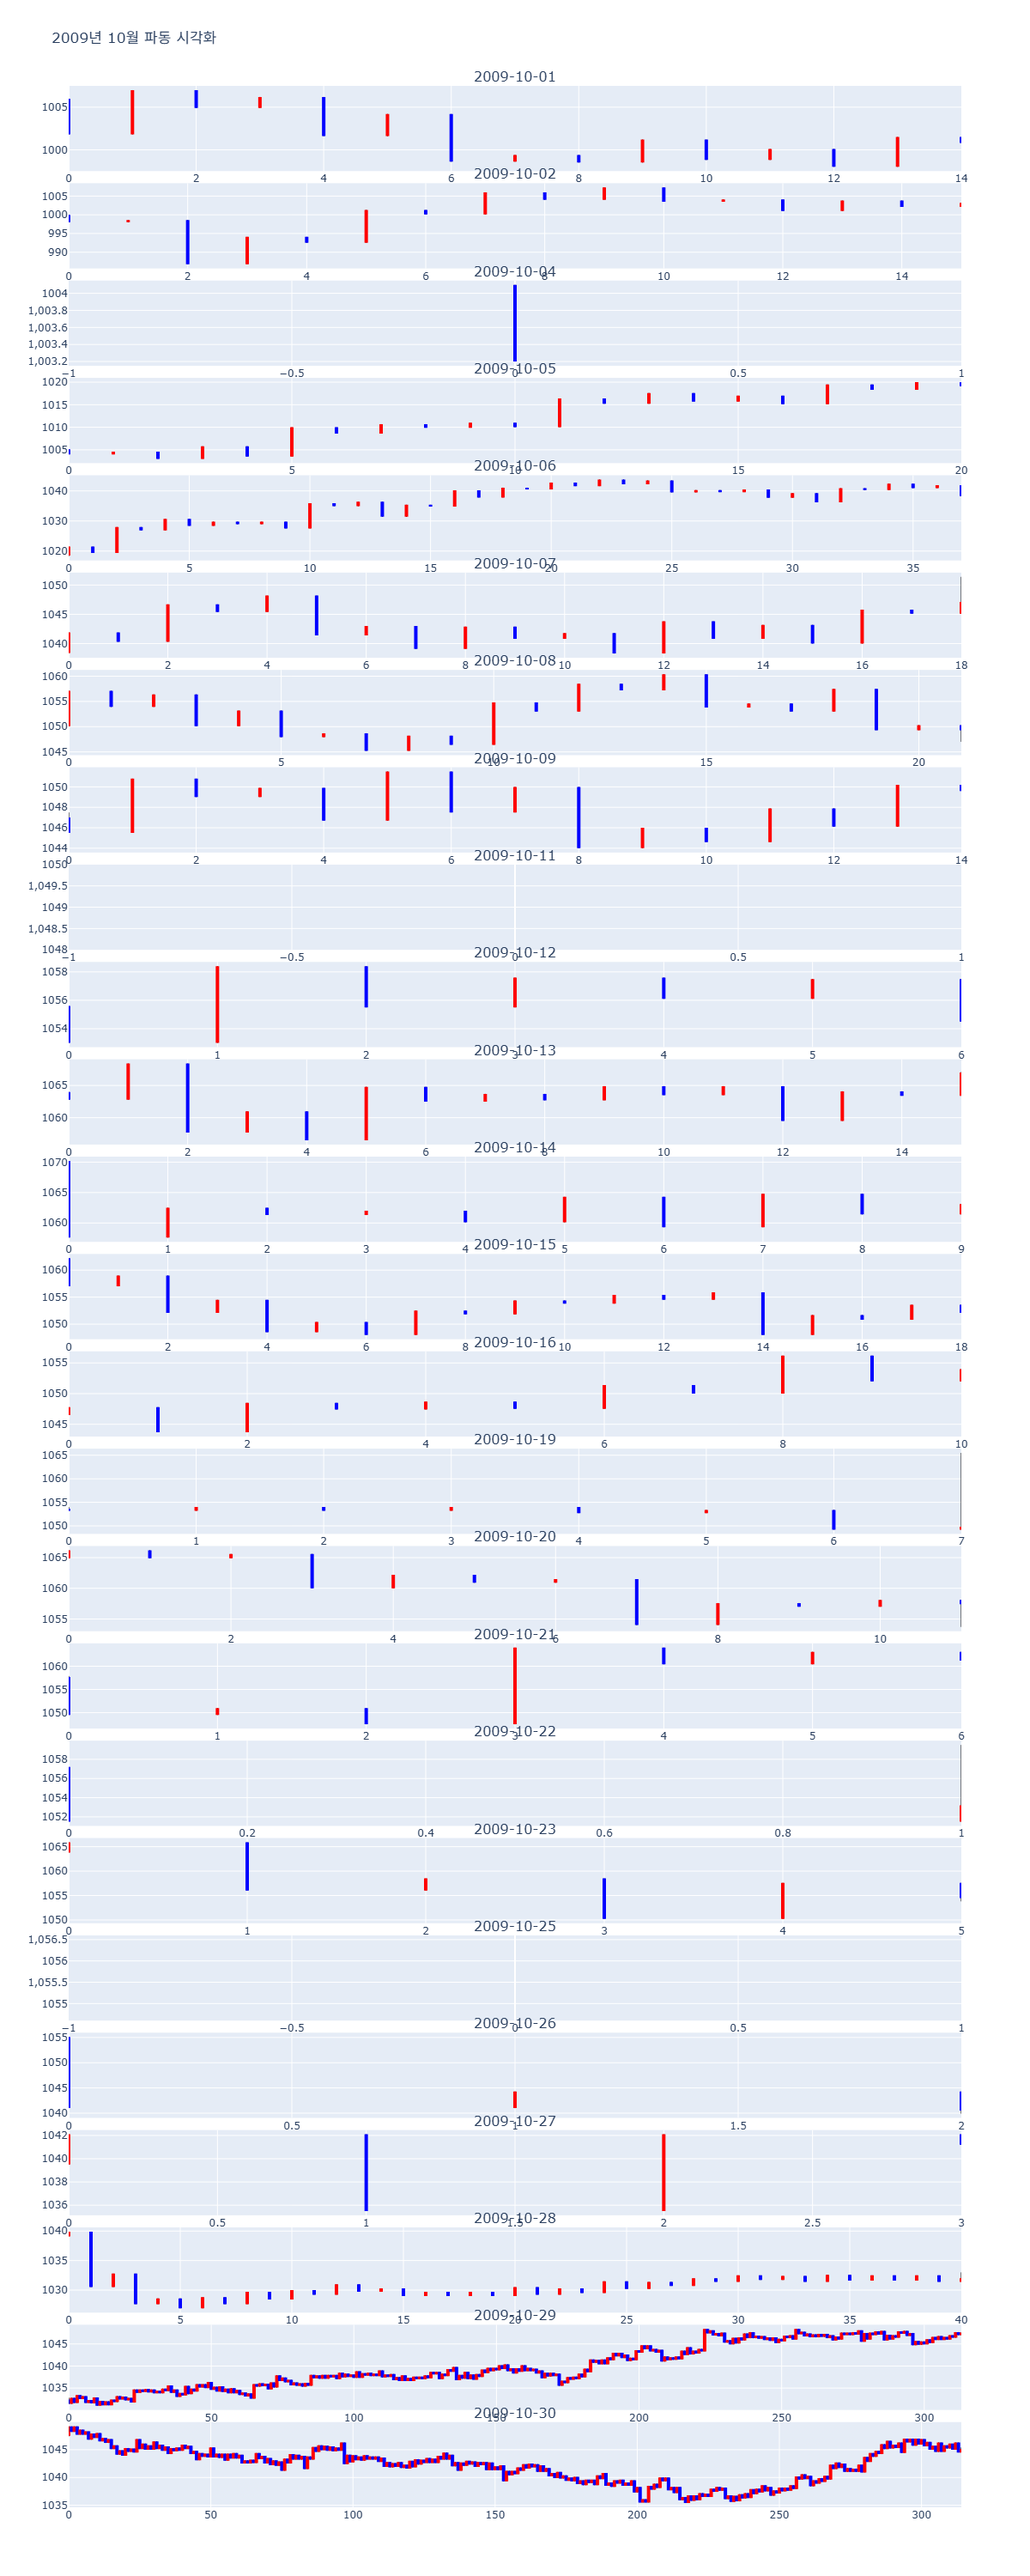
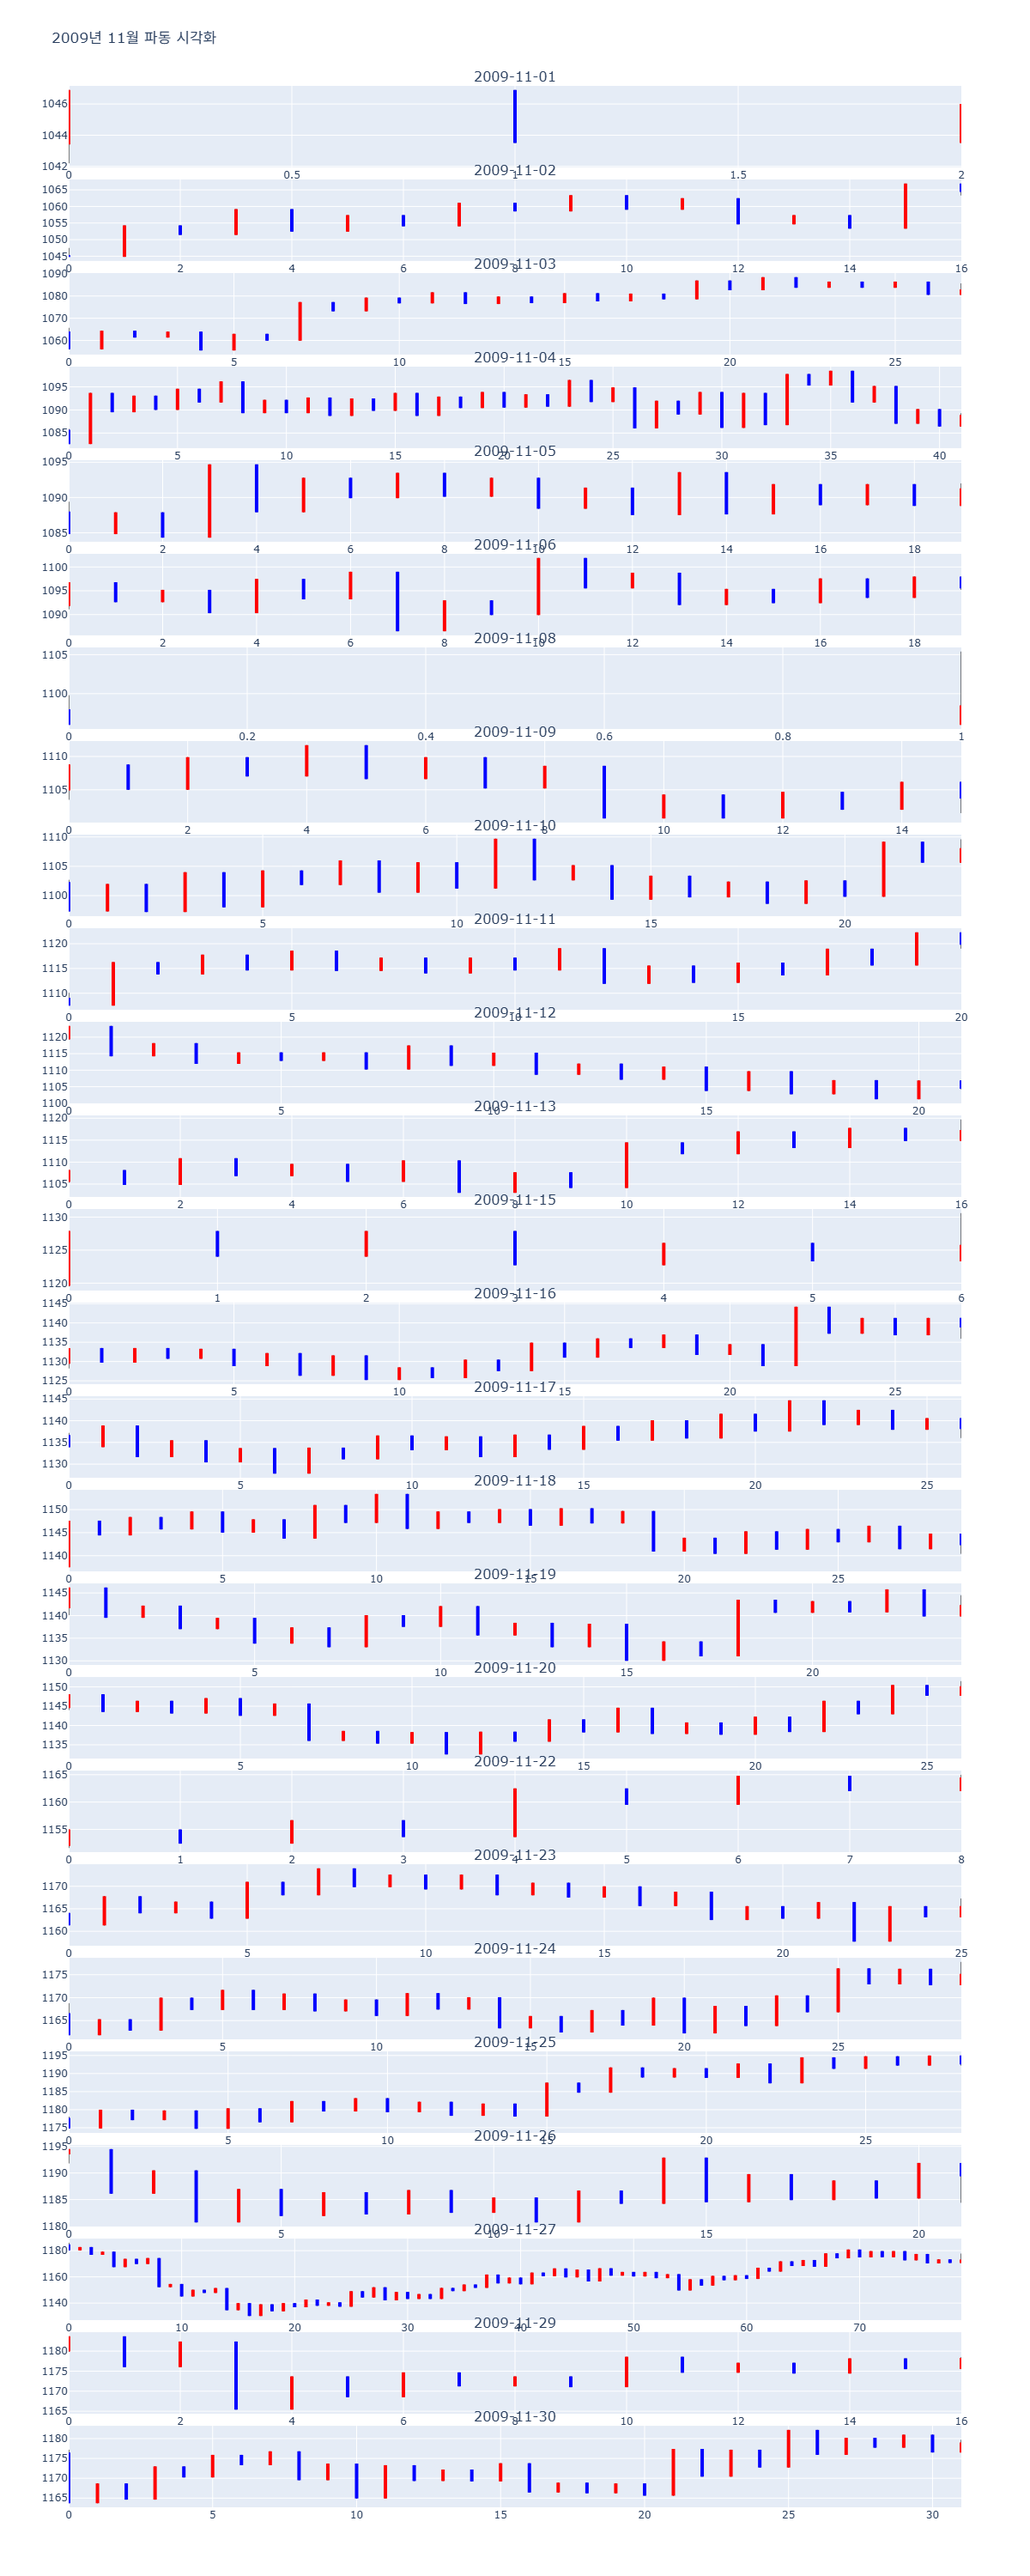
1. 파일 단위 파동 생성 테스트.

Changed region(s): [[0.0308, 0.031, 0.925, 0.992]]

diff --git a/duck_db_plot_month.py b/duck_db_plot_month.py
@@ -8,16 +8,16 @@ import plotly.io as pio
 conn = duckdb.connect("wave_data.duckdb")
 
 # 파라미터 설정
-symbol = "CL"
-year = 2009
-month = 11
-box_size = 0.05
+symbol = "NQ"
+year = 2025
+month = 5
+box_size = 2.5
 reverse_count = 5
 
 # 한 달치 파동 생성
 waves_by_day = build_waves_from_month(
     conn=conn,
-    table_name="tick_CL",
+    table_name="tick_NQ",
     symbol=symbol,
     year=year,
     month=month,

diff --git a/main_from_file.py b/main_from_file.py
@@ -8,7 +8,7 @@ print("🔄 데이터를 불러오는 중...")
 data = load_prices_with_time(file_path)
 print(f"✅ {len(data):,}개의 틱 데이터를 불러왔습니다.")
 
-builder = WaveBuilder(box_size=25.0, reverse_count=5)
+builder = WaveBuilder(box_size=5.0, reverse_count=5)
 for timestamp, price in data:
     builder.add_price(price, timestamp)
 builder.finalize()
